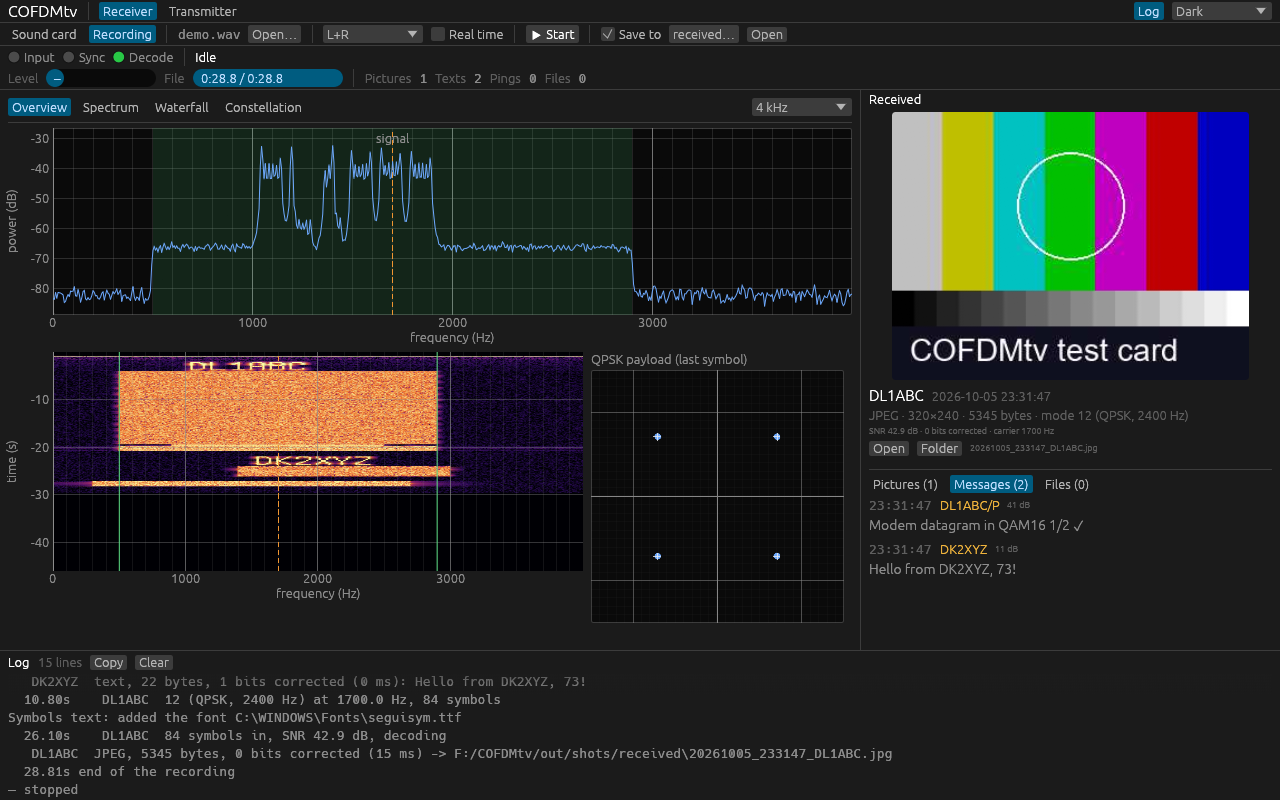
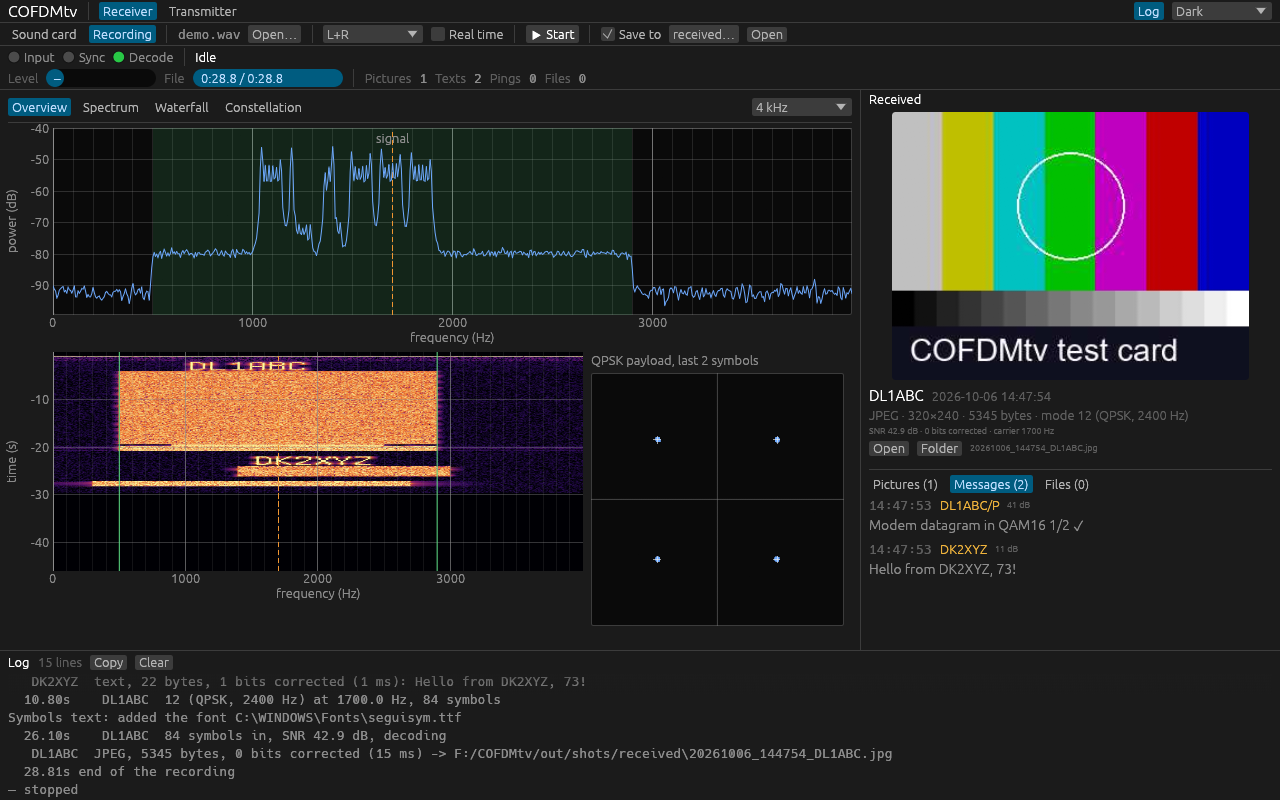
README: pictures, downloads and the credit to aicodix up front
New pictures from the current build: the receiver refreshed, a picture arriving over the modem in QAM256 frames beside the Data page sending it, and four constellations building up (QAM16 to QAM1024). A Download section for the release exes, and aicodix (site and GitHub) named at the top and linked project by project in the credits.

diff --git a/README.md b/README.md
@@ -1,7 +1,9 @@
 # COFDMtv
 
-A desktop transceiver for the aicodix audio modems, in Rust, with the look of
-[DecDRM](https://github.com/CasualArclamp/DecDRM):
+A desktop transceiver, in Rust, for the audio modems Ahmet Inan builds at
+**[aicodix](https://www.aicodix.de)** ([github.com/aicodix](https://github.com/aicodix)),
+with the look of [DecDRM](https://github.com/CasualArclamp/DecDRM). It works with
+aicodix's own apps and programs:
 
 - **COFDMTV pictures** — send and receive images like the Android apps
   [Shredpix](https://github.com/aicodix/shredpix) and
@@ -18,7 +20,8 @@ A desktop transceiver for the aicodix audio modems, in Rust, with the look of
 
 ![COFDMtv receiving a recording: the spectrum, the waterfall with the call signs of two transmissions' fancy headers, the QPSK constellation, the picture received, and messages from Rattlegram and the modem](docs/images/receiver.png)
 
-![The transmitter after sending a picture in three frames: the original and the WebP as it will arrive, mode, carrier and lead-in, and the status panel with the output spectrum](docs/images/transmitter.png)
+*Receiving a recording: a modem text, a Rattlegram text and a picture in mode 12. The
+call signs DK2XYZ and DL1ABC are the fancy headers, drawn into the waterfall.*
 
 COFDMTV is OFDM with 160 ms symbols (6.25 Hz carrier spacing) and a 1/8 guard interval,
 differentially PSK modulated, protected by systematic polar codes with a CRC — see
@@ -29,6 +32,13 @@ The modems are ports of the original C++, checked against it in both directions:
 picture and text mode, every sample rate, multi-frame pictures, and all 64 modem modes
 decode in COFDMtv from the originals' signals and in the originals from COFDMtv's, and
 COFDMtv's signals equal the originals' sample by sample.
+
+## Download
+
+For Windows 10 and 11 (64-bit): `cofdmtv-gui.exe` (the desktop app) and `cofdmtv.exe`
+(the command line) from the [latest release](https://github.com/CasualArclamp/COFDMtv/releases/latest).
+Each is a single file with nothing to install. They are not signed, so Windows SmartScreen
+may warn the first time ("More info" → "Run anyway"). On Linux, build from source (below).
 
 ## The program
 
@@ -45,6 +55,24 @@ COFDMtv's signals equal the originals' sample by sample.
   preview of how it will arrive), a text, a ping, or data over the modem (a text or any
   file); mode, carrier, lead-in and fancy header; to a sound card or a WAV/FLAC file,
   mono, one channel or I/Q.
+
+<p>
+  <img src="docs/images/modem.png" width="49%" alt="A picture arriving over the aicodix modem in six QAM256 frames: the spectrum, the waterfall, the QAM256 constellation building up, the picture and a text message">
+  <img src="docs/images/transmitter-data.png" width="49%" alt="The transmitter's Data page: a 10594-byte picture file in seven QAM256 1/2 normal frames at 1500 Hz, with the output spectrum">
+</p>
+
+*Left: a picture arriving over the aicodix modem in six QAM256 frames. Right: sending it,
+seven frames of which any six rebuild the file.*
+
+![The payload constellation building up for QAM16, QAM64, QAM256 and QAM1024](docs/images/constellations.png)
+
+*The constellation builds up over the last symbols, a dozen for every point: QAM16,
+QAM64, QAM256 and QAM1024 from the modem over a clean link (about 39 dB Es/N0). Scroll
+to zoom in, drag to move, double-click to see it all.*
+
+![The transmitter after sending a picture in three frames: the original and the WebP as it will arrive, mode, carrier and lead-in, and the status panel with the output spectrum](docs/images/transmitter.png)
+
+*Sending a picture in three frames: the original and the WebP as it will arrive.*
 
 Drop a recording on the window to receive it, a picture to send it, any other file to
 send it as data. Settings are kept in `%APPDATA%\cofdmtv\gui.toml` (Windows) or
@@ -89,10 +117,21 @@ the aicodix repositories by `tools/cxx-reference/build.sh` (see `docs/DESIGN.md`
 
 ## Credits and license
 
-The modems are ports of Ahmet Inan's aicodix C++ code (BSD Zero Clause License): DSP and
-coding from [aicodix/dsp](https://github.com/aicodix/dsp) and
-[aicodix/code](https://github.com/aicodix/code), the signals from the apps and the modem
-above. The fancy header font is from Terminus (SIL Open Font License). The GUI and audio
-code come from DecDRM.
+COFDMtv stands on Ahmet Inan's work at [aicodix](https://www.aicodix.de)
+([github.com/aicodix](https://github.com/aicodix)); its modems are ports of his C++ (BSD
+Zero Clause License):
+
+- the COFDMTV signal from [Shredpix](https://github.com/aicodix/shredpix),
+  [Assempix](https://github.com/aicodix/assempix) and
+  [Rattlegram](https://github.com/aicodix/rattlegram), described at
+  [aicodix.de/cofdmtv](https://www.aicodix.de/cofdmtv/);
+- the [aicodix modem](https://github.com/aicodix/modem);
+- DSP and coding from [aicodix/dsp](https://github.com/aicodix/dsp) and
+  [aicodix/code](https://github.com/aicodix/code), and multi-frame files as
+  [aicodix/crs](https://github.com/aicodix/crs) makes them;
+- the impaired test channels come from [aicodix/disorders](https://github.com/aicodix/disorders).
+
+The fancy header font is from Terminus (SIL Open Font License). The GUI and audio code
+come from [DecDRM](https://github.com/CasualArclamp/DecDRM).
 
 COFDMtv is licensed under the GNU General Public License, version 2 or later.
